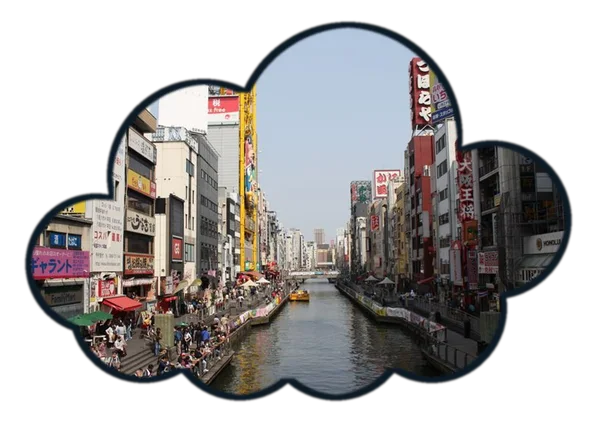
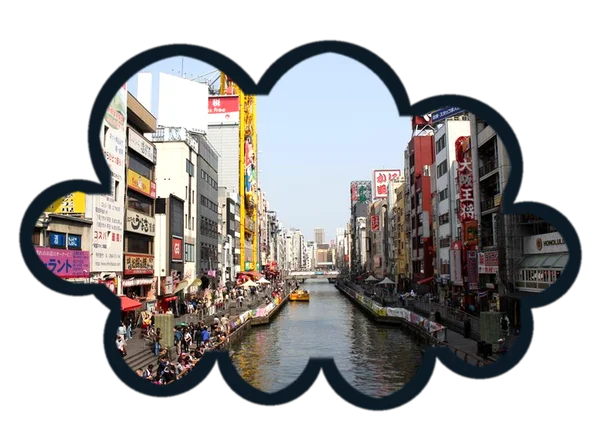
表示を更新（2026-10-28）

diff --git a/style.css b/style.css
@@ -20,12 +20,18 @@
 .head { display: grid; gap: var(--sp-1); }
 .head--chara { position: relative; }
 .head--chara > .head__chara, .head--chara > .head__photos { position: absolute; right: 0; bottom: 0; }
-#p3 .head__chara { top: -1.7em; bottom: auto; width: 7em; }
+.head__chara.head__chara--tower { bottom: -0.3em; width: 4.6em; }
+.hd--p3 { font-size: 1.75em; }
+.lead__chara { float: right; width: 7.2em; margin: -0.4em 0 0.1em 0.5em; }
+.lead__chara img { width: 100%; height: auto; }
 #requirements .head--chara { display: flex; justify-content: space-between; align-items: end; }
 #requirements .head--chara > .head__photos { position: static; }
 .head__chara { display: block; width: 7.6em; }
-.head__chara--tower { width: 5.2em; }
 .head__chara--sm { width: 6.6em; }
+.head__duo { position: absolute; right: 0; bottom: -0.2em; display: flex; align-items: end; gap: 0.2em; }
+.head__duo-castle { display: block; width: 4.6em; }
+.head__duo-walker { display: block; width: 5em; }
+.head__duo img { display: block; width: 100%; height: auto; }
 img.head__photo { height: auto; aspect-ratio: 1; object-fit: cover; border: var(--line); border-radius: 50%; }
 .head__photos .head__photo { width: 6.4em; }
 .head__photos { display: flex; gap: 0.4em; }
@@ -98,38 +104,37 @@ img.head__photo { height: auto; aspect-ratio: 1; object-fit: cover; border: var(
 .trip__row--night .trip__d { font-weight: 700; }
 
 .head--row { grid-template-columns: 1fr auto; align-items: center; }
-.hd--cloud { justify-self: start; padding: 1.05em 1.3em 0.85em 1.1em; margin-left: -0.3em; background: url(assets/illust/cloud.webp) center / 100% 100% no-repeat; }
 .ticket-nav { display: flex; gap: 0.4em; }
 .ticket-nav__btn { display: grid; place-items: center; width: 2.4em; aspect-ratio: 1; padding: 0; color: var(--color-ink); background: var(--color-base); border: var(--line-thin); border-radius: 50%; cursor: pointer; }
 .ticket-nav__btn svg { width: 1.1em; height: 1.1em; }
 .ticket-nav__btn--prev svg { scale: -1 1; }
 .tickets { flex-shrink: 0; display: flex; gap: 0.8em; margin-inline: calc(var(--gutter) * -1); padding: 0.2em var(--gutter) 0.6em; overflow-x: auto; scroll-snap-type: x mandatory; scrollbar-width: none; overscroll-behavior-x: contain; }
 .tickets::-webkit-scrollbar { display: none; }
-.ticket { position: relative; flex: 0 0 88%; display: grid; gap: 0.3em; align-content: start; padding: 0.8em 0.9em 0.9em; background: var(--color-base); border: var(--line); border-radius: var(--radius-card); scroll-snap-align: center; }
-.ticket__chara { position: absolute; right: 0.6em; top: 0.3em; width: 4.2em; height: auto; }
+.ticket { position: relative; flex: 0 0 88%; display: grid; gap: 0.3em; align-content: start; padding: 1em; background: var(--color-base); border: var(--line); border-radius: var(--radius-card); scroll-snap-align: center; }
+.ticket__chara { position: absolute; right: 0.8em; top: 0.6em; width: 4.2em; height: auto; }
 .ticket__name { min-height: 2.6em; margin-bottom: 0.3em; border-bottom: 2px dashed var(--color-pale-2); padding-bottom: 0.3em; font-family: var(--font-head); font-weight: 400; font-size: 1.45em; line-height: 1.2; color: var(--color-main); }
 .ticket__name b { font-weight: 400; }
 .ticket__q { line-height: 1.55; letter-spacing: 0.01em; }
 .ticket__k { font-weight: 700; color: var(--color-main); }
 
 .faq { display: grid; gap: 0.6em; }
-.qa { background: var(--color-base); border: var(--line); border-radius: 14px; box-shadow: var(--shadow-card); }
+.qa { background: var(--color-base); border: 3px solid var(--color-blue); border-radius: 14px; box-shadow: var(--shadow-card); }
 .qa__q { display: grid; grid-template-columns: 1fr 1.6em; gap: 0.5em; align-items: center; padding: 0.7em 0.9em; font-weight: 700; line-height: 1.5; cursor: pointer; list-style: none; }
 .qa__q::-webkit-details-marker { display: none; }
-.qa__q::after { content: "+"; display: grid; place-items: center; width: 1.6em; aspect-ratio: 1; font-family: var(--font-en); color: var(--color-on-dark); background: var(--color-main); border-radius: 50%; transition: rotate var(--dur-hover) ease; }
+.qa__q::after { content: ""; width: 1.6em; height: 1.6em; border-radius: 50%; background: linear-gradient(var(--color-on-dark), var(--color-on-dark)) center / 0.8em 3px no-repeat, linear-gradient(var(--color-on-dark), var(--color-on-dark)) center / 3px 0.8em no-repeat, var(--color-main); transition: rotate var(--dur-hover) ease; }
 .qa[open] .qa__q::after { rotate: 45deg; }
 .qa__a { padding: 0 0.9em 0.8em; line-height: 1.7; }
-.scene--night { rotate: 1deg; --pf-amp: 5px; --pf-tilt: 0.6deg; }
+.scene--night { margin-top: 0.5em; rotate: 1deg; --pf-amp: 4px; --pf-tilt: 0.4deg; }
 .scene--night .scene__img { object-position: center 40%; }
 
-.town { position: relative; height: 18dvh; margin-inline: calc(var(--gutter) * -1); flex-shrink: 0; }
+.town { position: relative; height: 18dvh; overflow: visible; margin-inline: calc(var(--gutter) * -1); flex-shrink: 0; }
 .town__img { width: 100%; height: 100%; object-fit: cover; object-position: center bottom; }
-.town.pf-drive-by .town__cloud { --pf-w: 18%; --pf-b: 52%; --pf-t: 16s; }
-.town__photo { position: absolute; right: 5%; top: 4%; width: 28%; }
+.town__sky { position: absolute; inset: 0; }
+.town__sky.pf-drive-by .town__cloud { --pf-w: 18%; --pf-b: 52%; --pf-t: 16s; }
+.town__photo { position: absolute; right: 5%; top: 8%; width: 27%; }
 .town__photo img { width: 100%; height: auto; aspect-ratio: 1; object-fit: cover; border: var(--line); border-radius: 50%; }
-.town.pf-drive-by .town__cloud--2 { --pf-b: 62%; --pf-t: 22s; --pf-d: -9s; --pf-w: 13%; }
-.info { position: relative; display: grid; padding-top: 0.9em; background: var(--color-base); border: var(--line); border-radius: var(--radius-card); box-shadow: var(--shadow-card); }
-.info::before { content: ""; position: absolute; left: 50%; top: 0.45em; width: 0.9em; height: 0.9em; margin-left: -0.45em; background: var(--color-pale); border: var(--line-thin); border-radius: 50%; }
+.town__sky.pf-drive-by .town__cloud--2 { --pf-b: 62%; --pf-t: 22s; --pf-d: -9s; --pf-w: 13%; }
+.info { position: relative; display: grid; background: var(--color-base); border: var(--line); border-radius: var(--radius-card); box-shadow: var(--shadow-card); }
 .info__row { display: grid; grid-template-columns: 5.2em 1fr; gap: 0.6em; padding: 0.55em 0.9em; line-height: 1.55; }
 .info__row + .info__row { border-top: 2px dashed var(--color-pale-2); }
 .info dt { font-family: var(--font-head); font-weight: 400; color: var(--color-main); }
@@ -144,16 +149,16 @@ img.head__photo { height: auto; aspect-ratio: 1; object-fit: cover; border: var(
 .go-entry { display: inline-flex; align-items: center; justify-content: center; gap: 0.5em; min-height: 3.4em; font-weight: 700; color: var(--color-on-dark); background: var(--color-accent); border: var(--line); border-radius: 12px; box-shadow: 4px 4px 0 var(--color-ink); }
 .go-entry svg { width: 1.2em; height: 1.2em; }
 
-.sea { position: relative; height: 11em; margin-top: 6.5em; background: var(--color-blue); }
+.sea { position: relative; height: 11em; margin-top: 8.5em; background: var(--color-blue); }
 .sea::before { content: ""; position: absolute; left: 0; right: 0; top: -1.2em; height: 2.4em; background: radial-gradient(1.4em 1.2em at 50% 100%, var(--color-blue) 98%, transparent 100%) 0 0 / 2.8em 100% repeat-x; }
-.sea__chara { position: absolute; right: 5%; top: -6em; width: 10em; }
+.sea__chara { position: absolute; right: 5%; top: -5.4em; width: 9em; }
 .sea__chara img { width: 100%; height: auto; }
 .sea__copy { position: absolute; left: var(--gutter); bottom: 1.2em; font-size: var(--fs-min); letter-spacing: 0.06em; color: var(--color-on-dark); }
 
 @media (min-width: 960px) {
   .stage { background: var(--color-pale); }
   .rail { overflow: hidden; }
-  .rail-deco { position: absolute; bottom: 4%; width: min(62%, 300px); height: auto; }
+  .rail-deco { position: absolute; bottom: 3%; width: min(40%, 190px); height: auto; }
   .rail-deco--l { left: 8%; }
   .rail-deco--r { right: 6%; }
 }
@@ -164,28 +169,32 @@ img.head__photo { height: auto; aspect-ratio: 1; object-fit: cover; border: var(
 }
 #p1 .page__inner::before { background-image: url(assets/illust/cloud.webp), url(assets/illust/torii.webp); background-size: 21% auto, 18% auto; background-position: 96% 2%, 97% 99%; }
 #p3 .page__inner::before { background-image: url(assets/illust/tower.webp); background-size: 11% auto; background-position: 97% 99.5%; }
-#p4 .page__inner::before { background-image: url(assets/illust/cloud.webp), url(assets/illust/castle.webp); background-size: 20% auto, 18% auto; background-position: 98% 1%, 2% 99.5%; }
+#p4 .page__inner::before { background-image: url(assets/illust/cloud.webp); background-size: 20% auto; background-position: 2% 1%; }
 #p5 .page__inner::before { background-image: url(assets/illust/cloud.webp); background-size: 15% auto; background-position: 96% 99%; }
-#p6 .page__inner::before { background-image: url(assets/illust/cloud.webp), url(assets/illust/castle.webp), url(assets/illust/torii.webp); background-size: 20% auto, 30% auto, 17% auto; background-position: 34% 0%, 0% 3%, 97% 99.5%; }
+#p6 .page__inner::before { background-image: url(assets/illust/cloud.webp), url(assets/illust/castle.webp), url(assets/illust/torii.webp); background-size: 17% auto, 22% auto, 17% auto; background-position: 30% 0%, 0% 1%, 97% 99.5%; }
 #p7 .page__inner::before { background-image: url(assets/illust/cloud.webp), url(assets/illust/deer.webp); background-size: 18% auto, 13% auto; background-position: 2% 1%, 3% 99.5%; }
 @keyframes props-drift { from { translate: 0 0; } to { translate: 0 -6px; } }
 
 .page--blue { background: var(--color-blue); }
-.page--blue .hd--cloud { color: var(--color-ink); }
-.page--blue .hd--cloud .hl { color: var(--color-main); }
+.page--blue .hd { color: var(--color-ink); }
+.page--blue .hl { color: var(--color-on-dark); }
 .page--blue::before { content: ""; position: absolute; left: -20%; top: 18%; width: 70%; aspect-ratio: 1; border: 3px dotted var(--color-on-dark-line); border-radius: 50%; pointer-events: none; }
 
 @media (max-height: 740px) {
+  #p4 .page__inner::before { background-image: none; }
+  #p6 .page__inner::before { background-image: url(assets/illust/torii.webp); background-size: 17% auto; background-position: 97% 99.5%; }
   .page { --lh-body: 1.58; --sp-g: 0.8em; --fs-head: 1.85em; }
   .txt { gap: 0.45em; }
   .br-tall { display: none; }
   .pond { height: 19dvh; }
   .scene { height: 17dvh; }
-  .hd--cloud { padding-block: 0.8em 0.6em; }
-  .ticket { flex-basis: 93%; padding: 0.55em 0.75em 0.6em; gap: 0.15em; }
+  .ticket { flex-basis: 93%; padding: 0.7em 0.75em; gap: 0.15em; }
   .ticket__q { line-height: 1.42; letter-spacing: 0; }
   .town { height: 16dvh; }
   .head__chara--sm { width: 3em; }
+  .lead__chara { width: 5.6em; }
+  .head__duo-castle { width: 3.6em; }
+  .head__duo-walker { width: 4em; }
   .trip { padding-block: 0.4em; }
   .trip__row { line-height: 1.35; }
   .job__body { line-height: 1.45; }
@@ -202,14 +211,16 @@ img.head__photo { height: auto; aspect-ratio: 1; object-fit: cover; border: var(
   .lead { line-height: 1.5; }
   .note, .box { padding-block: 0.35em; }
   .allow__list { gap: 0.3em; }
-  .trip__row { line-height: 1.3; }
+  .trip__row { line-height: 1.25; }
   .ticket__chara { width: 3em; }
   .ticket__name { min-height: 1.85em; }
-  .hd--cloud { padding-block: 0.55em 0.4em; }
   .ticket__q { line-height: 1.34; }
   .page:not(.page--hero):not(.page--long) .page__inner::before { display: none; }
   .job__body { line-height: 1.4; }
   .head__chara, .tag-en, .job__photo { display: none; }
+  .lead__chara { width: 4.4em; }
+  .jobs { gap: 0.3em; }
+  .trip__ttl { margin-bottom: 0.1em; }
   .allow__item { padding-block: 0.15em; }
   .job { grid-template-columns: 1fr; }
 }
@@ -228,7 +239,7 @@ img.head__photo { height: auto; aspect-ratio: 1; object-fit: cover; border: var(
   .ticket__q { line-height: 1.8; }
   .qa__q { padding-block: 1em; }
   .qa__a { line-height: 1.95; }
-  .town { height: 24dvh; }
+  .town { height: 20dvh; }
   .info__row { padding-block: 0.95em; }
 }
 

diff --git a/index.html b/index.html
@@ -102,12 +102,11 @@
             <div class="head head--chara rv">
               <div class="head__txt">
                 <p class="page__label tag-en" aria-hidden="true">POINT 02</p>
-                <h2 class="hd">出張＝<br><em class="hl nb">家族のための稼ぎ</em>と、<br>気楽な一人時間。</h2>
+                <h2 class="hd hd--p3"><span class="nb">出張＝<em class="hl">家族のための稼ぎ</em>と、</span><br>気楽な一人時間。</h2>
               </div>
-              <span class="head__chara pf-float rvp" aria-hidden="true"><img class="pf-jump-in rvp" src="assets/illust/c5.webp" alt="" width="710" height="600" decoding="async"></span>
             </div>
             <div class="txt">
-              <p class="body lead rv"><span class="ln">子どもの<wbr>進学費用や<wbr>住宅ローン。</span><span class="ln">責任を<wbr>背負って<wbr>戦うあなたに<wbr>必要なのは、<wbr>曖昧な「アットホーム」ではなく<wbr><strong class="mark">「確実な手取り」</strong>です。</span></p>
+              <p class="body lead rv"><span class="lead__chara pf-float rvp" aria-hidden="true"><img class="pf-jump-in rvp" src="assets/illust/c5.webp" alt="" width="710" height="600" decoding="async"></span><span class="ln">子どもの<wbr>進学費用や<wbr>住宅ローン。</span><span class="ln">責任を<wbr>背負って<wbr>戦うあなたに<wbr>必要なのは、<wbr>曖昧な「アットホーム」ではなく<wbr><strong class="mark">「確実な手取り」</strong>です。</span></p>
               <div class="allow rv">
                 <p class="allow__lead">当社では</p>
                 <ul class="allow__list">
@@ -127,21 +126,21 @@
           <div class="page__inner">
             <div class="head head--chara rv" aria-hidden="true">
               <p class="page__label hd hd--sm">お仕事<em class="hl">紹介</em></p>
-              <span class="head__chara head__chara--sm pf-chara-idle pf-chara-idle--walk rvp"><img src="assets/illust/c1.webp" alt="" width="596" height="600" decoding="async"></span>
+              <span class="head__duo"><span class="head__duo-castle pf-float rvp"><img class="pf-jump-in rvp" src="assets/illust/castle.webp" alt="" width="524" height="400" decoding="async"></span><span class="head__duo-walker pf-chara-idle pf-chara-idle--walk rvp"><img src="assets/illust/c1.webp" alt="" width="596" height="600" decoding="async"></span></span>
             </div>
             <div class="jobs">
               <div class="job rv">
                 <img class="job__photo pf-image-open rvp" src="assets/photo/panel.webp" alt="" width="480" height="480" decoding="async">
                 <div class="job__txt">
                   <h3 class="job__name">電気工事士</h3>
-                  <p class="job__body"><span class="ln">商業ビル、<wbr>大型施設、<wbr>工場などの<wbr>「自動制御装置」の<wbr>配線・シーケンサーソフト導入・試運転・メンテナンス。</span><span class="ln">建物に“知能”を<wbr>通わせ、<wbr>安全・省エネな<wbr>空間をつくる<wbr>技術職です。</span></p>
+                  <p class="job__body"><span class="ln">商業ビル、<wbr>大型施設、<wbr>工場などの<span class="nb">「自動制御装置」の配線・</span><wbr><span class="nb">シーケンサーソフト導入・</span><wbr>試運転・<wbr>メンテナンス。</span><span class="ln">建物に“知能”を<wbr>通わせ、<wbr>安全・省エネな<wbr>空間をつくる<wbr>技術職です。</span></p>
                 </div>
               </div>
               <div class="job rv">
                 <img class="job__photo pf-image-open rvp" src="assets/photo/meter.webp" alt="" width="480" height="480" decoding="async">
                 <div class="job__txt">
                   <h3 class="job__name">計装工</h3>
-                  <p class="job__body"><span class="ln">自動制御システムの<wbr>施工管理、<wbr>計装工事の<wbr>工程・安全管理、<wbr>シーケンサーソフトの<wbr>現地調整・試運転。</span><span class="ln">現場責任者として<wbr>裁量を<wbr>持って<wbr>進めていただきます。</span></p>
+                  <p class="job__body"><span class="ln"><span class="nb">自動制御システムの施工管理、</span><wbr><span class="nb">計装工事の工程・安全管理、</span><wbr>シーケンサーソフトの<wbr>現地調整・試運転。</span><span class="ln">現場責任者として<wbr>裁量を<wbr>持って<wbr>進めていただきます。</span></p>
                 </div>
               </div>
             </div>
@@ -163,7 +162,7 @@
                 <section class="page page--blue" id="p5" data-tone="light" data-label="INTERVIEW" data-next="よくある質問">
           <div class="page__inner">
             <div class="head head--row rv">
-              <p class="page__label hd hd--sm hd--cloud" aria-hidden="true">社員<em class="hl">インタビュー</em></p>
+              <p class="page__label hd hd--sm" aria-hidden="true">社員<em class="hl">インタビュー</em></p>
               <div class="ticket-nav page__label" aria-hidden="true">
                 <button class="ticket-nav__btn ticket-nav__btn--prev" type="button" aria-label="前へ"><svg><use href="#ar"/></svg></button>
                 <button class="ticket-nav__btn" type="button" aria-label="次へ"><svg><use href="#ar"/></svg></button>
@@ -217,11 +216,13 @@
             <div class="head head--chara rv" aria-hidden="true">
               <p class="page__label hd hd--sm">会社<em class="hl">概要</em></p>
             </div>
-            <figure class="town pf-drive-by rvp" aria-hidden="true" data-bleed>
+            <figure class="town" aria-hidden="true" data-bleed>
+              <span class="town__sky pf-drive-by rvp">
               <img class="town__img" src="assets/illust/town.webp" alt="" width="1814" height="300" decoding="async">
-              <span class="town__photo pf-float rvp"><img class="pf-jump-in rvp" src="assets/photo/honsha.webp" alt="" width="480" height="480" decoding="async"></span>
               <span class="pf-v town__cloud town__cloud--1"><img src="assets/illust/cloud.webp" alt="" width="281" height="160" decoding="async"></span>
               <span class="pf-v town__cloud town__cloud--2"><img src="assets/illust/cloud.webp" alt="" width="281" height="160" decoding="async"></span>
+                          </span>
+              <span class="town__photo pf-float rvp"><img class="pf-jump-in rvp" src="assets/photo/honsha.webp" alt="" width="480" height="480" decoding="async"></span>
             </figure>
             <dl class="info rv">
               <div class="info__row"><dt class="page__label">会社名</dt><dd>株式会社エビア</dd></div>
